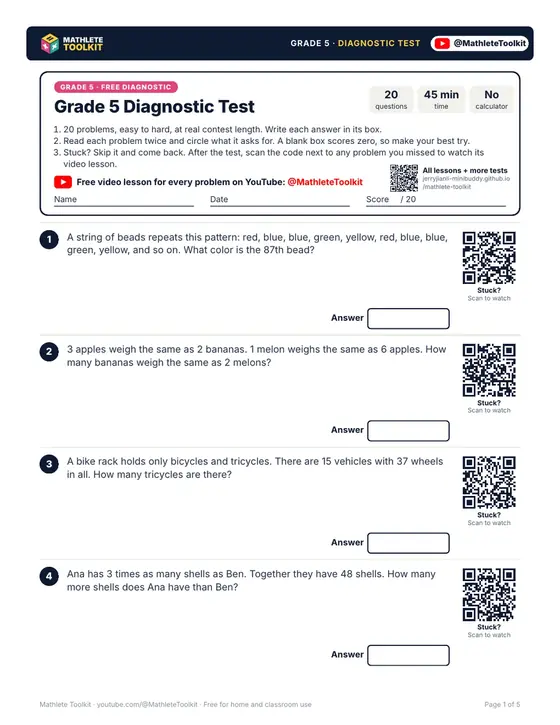
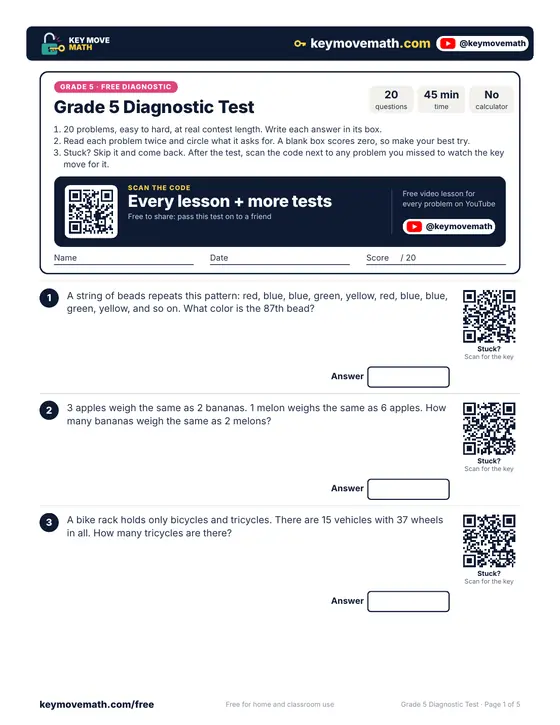
Free test page becomes a landing page; real sample pages and parent FAQ on Home
/free now says what you get, what the form asks, what happens after it (three
steps), shows page 1 and a worked answer-key page, answers six parent questions,
and repeats the one button. Home gets a See inside the test row (diagnostic page 1,
practice test page 1, answer key; swipe on phones, tap for full size) and a parent
FAQ with FAQPage structured data.

Also replaces assets/img/diagnostic-page1.webp, which still showed the old channel
name, with the current Key Move Math page (and a 560 px copy for phones).

diff --git a/assets/css/site.css b/assets/css/site.css
@@ -329,3 +329,36 @@ main .hero :focus-visible, main .cta-band :focus-visible { outline-color: var(--
   .foot { padding-bottom: 110px; }
 }
 @media (max-width: 340px) { .mcta small { display: none; } }
+
+/* sample pages (home, /free, mock tests): a swipe row on phones, three across on wide screens */
+.samples { display: grid; grid-auto-flow: column; grid-auto-columns: 78%; gap: 16px; overflow-x: auto; scroll-snap-type: x mandatory; padding: 4px 2px 14px; margin: 0 -2px; scrollbar-width: thin; }
+.sample { margin: 0; scroll-snap-align: start; background: #fff; border: 1px solid var(--line); border-radius: 14px; overflow: hidden; box-shadow: var(--shadow); }
+.sample a { display: block; background: #fff; border-bottom: 1px solid var(--line); }
+.sample img { width: 100%; height: auto; }
+.sample figcaption { padding: 12px 14px 14px; font-size: .92rem; color: var(--muted); }
+.sample figcaption b { display: block; color: var(--ink); font-size: 1rem; margin-bottom: 2px; }
+@media (min-width: 720px) { .samples { grid-auto-columns: 46%; } }
+@media (min-width: 960px) { .samples { grid-auto-flow: row; grid-template-columns: repeat(3, 1fr); grid-auto-columns: auto; overflow: visible; } }
+.sec-cta { text-align: center; margin: 26px 0 0; }
+
+/* FAQ */
+.faq { max-width: 820px; }
+.qa { background: #fff; border: 1px solid var(--line); border-radius: 14px; margin: 0 0 10px; }
+.qa summary { cursor: pointer; font-weight: 800; padding: 16px 48px 16px 18px; list-style: none; position: relative; min-height: 44px; }
+.qa summary::-webkit-details-marker { display: none; }
+.qa summary::after { content: "+"; position: absolute; right: 18px; top: 50%; transform: translateY(-50%); font-size: 1.4rem; font-weight: 800; color: var(--pink); }
+.qa[open] summary::after { content: "\2212"; }
+.qa p { margin: 0; padding: 0 18px 16px; color: var(--muted); }
+
+/* /free landing */
+.hero-free h1 { font-size: clamp(2rem, 5.4vw, 3.2rem); }
+.form-note { color: #AFBBD6; font-size: .92rem; margin: 0; max-width: 32em; }
+.hero-paper { max-width: 300px; }
+@media (max-width: 760px) { .hero-paper { max-width: 230px; max-height: 260px; } .hero-paper img { object-fit: cover; object-position: top; } }
+.free-grid { display: grid; gap: 22px; }
+@media (min-width: 860px) { .free-grid { grid-template-columns: 1fr 1fr; } }
+.free-grid h2 { font-size: 1.5rem; }
+.next-steps { margin: 0; padding: 0; list-style: none; counter-reset: s; display: grid; gap: 14px; }
+.next-steps li { counter-increment: s; position: relative; padding-left: 44px; color: var(--muted); }
+.next-steps li b { color: var(--ink); }
+.next-steps li::before { content: counter(s); position: absolute; left: 0; top: -2px; width: 30px; height: 30px; border-radius: 9px; background: var(--navy); color: var(--yellow); font-weight: 900; display: grid; place-items: center; }

diff --git a/build.py b/build.py
@@ -328,6 +328,72 @@ def test_cta(root, compact=False):
 </section>"""
 
 
+# ---------- sample pages and parent FAQ (Nov 11) ----------
+
+# Real pages from the PDFs (mock-tests/preview/), small for phones and full size on tap.
+SAMPLES = {
+    "diagnostic": ("diagnostic-page1-sm.webp", "diagnostic-page1.webp", "Free test, page 1",
+                   "20 problems, easy to hard, each with an answer box and a QR code to its lesson."),
+    "practice": ("sample-test-page1.webp", "sample-test-page1-lg.webp", "Practice test, page 1",
+                 "Every test in the pack has the same format, so the free test is a fair preview."),
+    "key": ("sample-answer-key.webp", "sample-answer-key-lg.webp", "Answer key",
+            "Each answer shows the working and names the tool it uses (sample from Practice Test 3)."),
+}
+
+
+def samples(root, keys=("diagnostic", "practice", "key")):
+    figs = []
+    for k in keys:
+        sm, lg, title, text = SAMPLES[k]
+        figs.append(f'<figure class="sample"><a href="{root}assets/img/{lg}" aria-label="{e(title)}, full size">'
+                    f'<img src="{root}assets/img/{sm}" srcset="{root}assets/img/{sm} 560w, {root}assets/img/{lg} 1105w" '
+                    f'sizes="(min-width: 960px) 340px, 78vw" width="560" height="725" loading="lazy" alt="{e(title)} of a Key Move Math Grade 5 test"></a>'
+                    f'<figcaption><b>{e(title)}</b> {e(text)}</figcaption></figure>')
+    return f'<div class="samples">{"".join(figs)}</div>'
+
+
+SHOP = {"live": False}  # set in main() from data/shop.json
+
+
+def faqs():
+    live = SHOP.get("live")
+    return {
+        "free": ("Is the test really free?",
+                 "Yes. Fill in a short form (email, grade and contest) and the link to the PDF shows right away. No payment, no card."),
+        "who": ("Who is it for?",
+                "Grade 5 students getting ready for a math contest, or any Grade 5 student who likes a challenge. Lessons for more grades are on the way."),
+        "time": ("How long does it take?",
+                 "45 minutes for 20 problems, no calculator. Print it at home, or open it on a tablet and write the answers on paper."),
+        "misses": ("What do we do with the problems my child misses?",
+                   "Scan the QR code beside the problem. It opens the video lesson for the key move behind it. Watch it, then try the problem again the next day without looking."),
+        "original": ("Are the problems copied from real contests?",
+                     "No. Every problem is our own, and every answer is checked by computer. We studied real Grade 5 contest tests to match their difficulty and the mix of tools they use, but we never copy them."),
+        "share": ("Can I share the free test?",
+                  "Yes. It is free for home and classroom use, so pass it on to a friend or a class."),
+        "lessons": ("Do the video lessons cost anything?",
+                    "No. Every lesson is free to watch on YouTube, and each one teaches a single named tool in about four minutes."),
+        "pack": ("What is in the practice pack?",
+                 "Ten more full tests in the same format: 20 problems and 45 minutes each, a worked answer key after every test, and a lesson QR beside every problem. One 60-page PDF, for one family or one classroom."),
+        "when": (("How do I buy the practice tests?",
+                  "One test is $3.99 and all 10 are $19.99, half the price of ten singles. Pick them on the Mock tests page; the PDF downloads right after checkout.")
+                 if live else
+                 ("When can I buy the practice tests?",
+                  "Checkout opens soon: $3.99 for one test or $19.99 for all 10, half the price of ten singles. Until then, start with the free test, which uses the same format.")),
+        "independent": ("Is Key Move Math run by a contest organizer?",
+                        "No. Key Move Math is an independent practice channel. It is not affiliated with or endorsed by any contest organizer."),
+    }
+
+
+def faq(keys, h="h2", title="Questions parents ask"):
+    """FAQ as <details> (no JS needed). Returns (html, FAQPage JSON-LD script)."""
+    F = faqs()
+    items = "".join(f'<details class="qa"><summary>{e(F[k][0])}</summary><p>{e(F[k][1])}</p></details>' for k in keys)
+    ld = {"@context": "https://schema.org", "@type": "FAQPage", "mainEntity": [
+        {"@type": "Question", "name": F[k][0], "acceptedAnswer": {"@type": "Answer", "text": F[k][1]}} for k in keys]}
+    return (f'<div class="faq"><{h}>{title}</{h}>{items}</div>',
+            f'<script type="application/ld+json">{json.dumps(ld)}</script>')
+
+
 def write(path, text):
     full = os.path.join(OUT, path)
     os.makedirs(os.path.dirname(full), exist_ok=True)
@@ -357,9 +423,10 @@ def page_home(lessons):
         else f'<span class="grade"><b>Grade {g}</b><span>Coming</span></span>' for g, live_g in GRADES)
     ld = {"@context": "https://schema.org", "@type": "Organization", "name": NAME, "url": SITE + "/",
           "logo": SITE + "/assets/img/logo-512.png", "sameAs": [YT]}
+    faq_html, faq_ld = faq(("free", "who", "time", "misses", "original", "lessons", "pack", "when", "independent"))
     body = head(f"{NAME}: Free Grade 5 Contest Math Test and Video Lessons",
                 "Free Grade 5 contest math test: 20 problems, 45 minutes, answer key included, and a QR code beside every problem that opens a short video lesson on the key move for it.",
-                "", root, extra=f'<script type="application/ld+json">{json.dumps(ld)}</script>')
+                "", root, extra=f'<script type="application/ld+json">{json.dumps(ld)}</script>' + faq_ld)
     body += nav(root)
     body += f"""<section class="hero">
  <div class="wrap hero-in">
@@ -392,6 +459,15 @@ def page_home(lessons):
  </div>
 </section>
 
+<section class="sec sec-alt" aria-labelledby="inside-h">
+ <div class="wrap">
+  <h2 id="inside-h">See inside the test</h2>
+  <p class="sec-lead">Real pages from the PDFs. Tap any page to see it full size.</p>
+  {samples(root)}
+  <p class="sec-cta" data-cta-watch><a class="btn btn-primary btn-lg btn-wide" href="{root}free/">Get the free test</a></p>
+ </div>
+</section>
+
 <section class="sec">
  <div class="wrap">
   <div class="sec-head"><h2>Grade 5 key moves</h2><a class="more" href="grade-5/">See all {len(lessons)} &rarr;</a></div>
@@ -409,7 +485,10 @@ def page_home(lessons):
   <div class="grades">{grades}</div>
  </div>
 </section>
-{test_cta(root)}
+<section class="sec" aria-label="Questions parents ask">
+ <div class="wrap">{faq_html}</div>
+</section>
+{test_cta(root, compact=True)}
 """
     body += foot(root)
     write("index.html", body)
@@ -644,34 +723,60 @@ def page_tests(lessons, shop):
 
 
 def page_free():
-    """keymovemath.com/free: the address every video and description points to for the free test (Nov 10).
-    Signups still go to the same Google Form."""
+    """keymovemath.com/free: the address every video, test and description points to for the free test (Nov 10).
+    Signups go to the Google Form. Nov 11: a full landing page (what you get, what happens next, sample pages, FAQ)."""
     root = "../"
+    faq_html, _ = faq(("free", "who", "time", "misses", "share", "original"), title="Before you start")
+    go = (f'<a class="btn btn-primary btn-lg btn-wide" href="{FORM}" rel="noopener">Get the free test</a>')
     body = head(f"Free Grade 5 Math Contest Test | {NAME}",
                 "Get the free 20-problem Grade 5 competition math test: answer key included, and a QR code beside every problem opens the key move for it.",
                 "free/", root)
     body += nav(root, "free")
-    body += f"""<section class="page-head">
- <div class="wrap">
-  <p class="eyebrow">Free</p>
-  <h1>Your free Grade 5 contest test</h1>
-  <p class="lead">Twenty problems at real test length. Stuck on one? Scan its QR code and the key move for it opens. One key at a time.</p>
+    body += f"""<section class="hero hero-free">
+ <div class="wrap hero-in">
+  <div class="hero-copy">
+   <p class="eyebrow eyebrow-y">Free &middot; Grade 5</p>
+   <h1>Your free Grade 5 contest test</h1>
+   <p class="lead">Twenty problems at real test length, with the answer key. Stuck on one? Scan its QR code and the key move for it opens.</p>
+   <div class="hero-cta">{go}</div>
+   <p class="form-note">A short form asks for your email, grade and contest. The PDF link shows as soon as you send it.</p>
+  </div>
+  <a class="paper hero-paper" href="{root}assets/img/diagnostic-page1.webp"><img src="{root}assets/img/diagnostic-page1-sm.webp" srcset="{root}assets/img/diagnostic-page1-sm.webp 560w, {root}assets/img/diagnostic-page1.webp 1105w" sizes="(min-width: 960px) 380px, 70vw" alt="Page 1 of the free Grade 5 Diagnostic Test" width="560" height="725"></a>
  </div>
 </section>
-<section class="sec sec-tight">
- <div class="wrap tests">
+<section class="sec">
+ <div class="wrap free-grid">
   <div class="test-card test-free">
-   <h2>Grade 5 Diagnostic Test</h2>
+   <h2>What you get</h2>
    <ul class="ticks">
     <li>20 original contest-style problems, easy to hard</li>
     <li>45 minutes, no calculator</li>
     <li>Answer key on the last page</li>
     <li>A QR code beside every problem opens its video lesson</li>
+    <li>Free for home and classroom use, so share it</li>
    </ul>
-   <a class="btn btn-primary btn-lg" href="{FORM}" rel="noopener">Get the free test</a>
-   <p class="small">Fill in a short form (email, grade, contest) and the PDF link comes right up.</p>
   </div>
-  <figure class="paper paper-lg"><img src="{root}assets/img/diagnostic-page1.webp" alt="First page of the Grade 5 Diagnostic Test" width="1105" height="1430" loading="lazy"><figcaption>Page 1 of the free Grade 5 Diagnostic Test</figcaption></figure>
+  <div class="test-card">
+   <h2>What happens next</h2>
+   <ol class="next-steps">
+    <li><b>Send the short form.</b> The link to the PDF shows right away.</li>
+    <li><b>Take the test.</b> Print it or use a tablet. Set a 45-minute timer.</li>
+    <li><b>Fix every miss.</b> Check with the answer key, then scan the QR beside each miss to watch its key move.</li>
+   </ol>
+  </div>
+ </div>
+</section>
+<section class="sec sec-alt">
+ <div class="wrap">
+  <h2>See the pages</h2>
+  <p class="sec-lead">Page 1 of the free test and a page of worked answers. Tap to see full size.</p>
+  {samples(root, ("diagnostic", "key"))}
+ </div>
+</section>
+<section class="sec">
+ <div class="wrap">
+  {faq_html}
+  <p class="sec-cta">{go}</p>
  </div>
 </section>
 """
@@ -767,6 +872,7 @@ def extras(lessons, urls):
 
 def main():
     lessons = load()
+    SHOP.update(load_shop())
     if os.path.exists(OUT):
         shutil.rmtree(OUT)
     shutil.copytree(os.path.join(ROOT, "assets"), os.path.join(OUT, "assets"))
@@ -786,7 +892,7 @@ def main():
                    f"Free {C['name']} prep videos: the problem-solving tools that come up most, taught one at a time.")
         if sub:
             urls.append(C["slug"] + "/")
-    page_tests(lessons, load_shop())
+    page_tests(lessons, SHOP)
     page_free()
     page_about(lessons)
     page_404()
